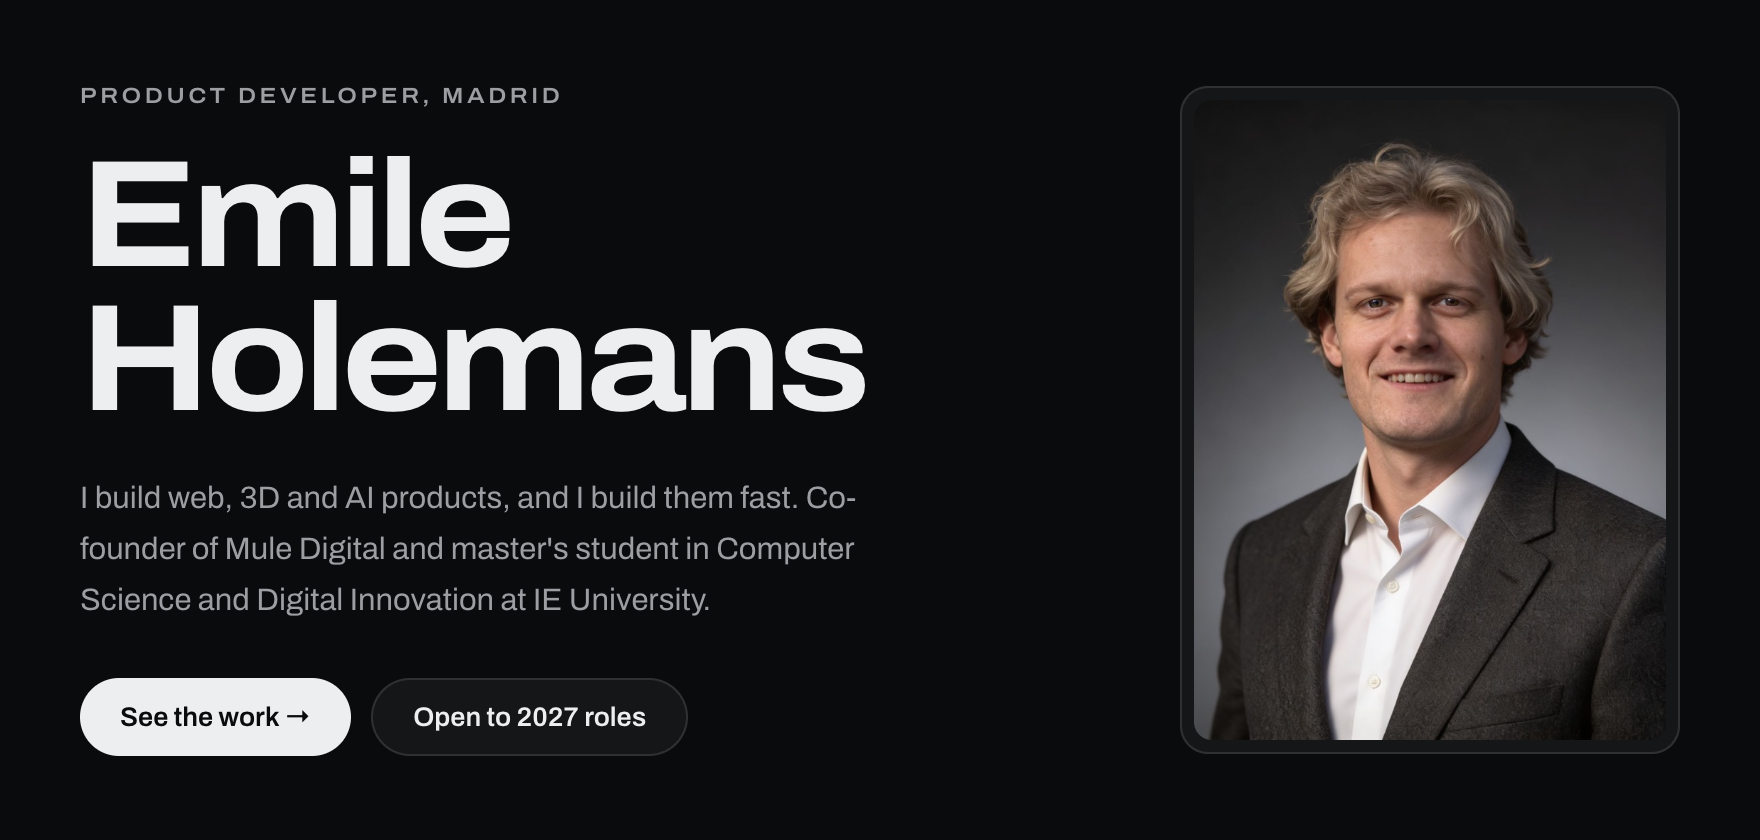
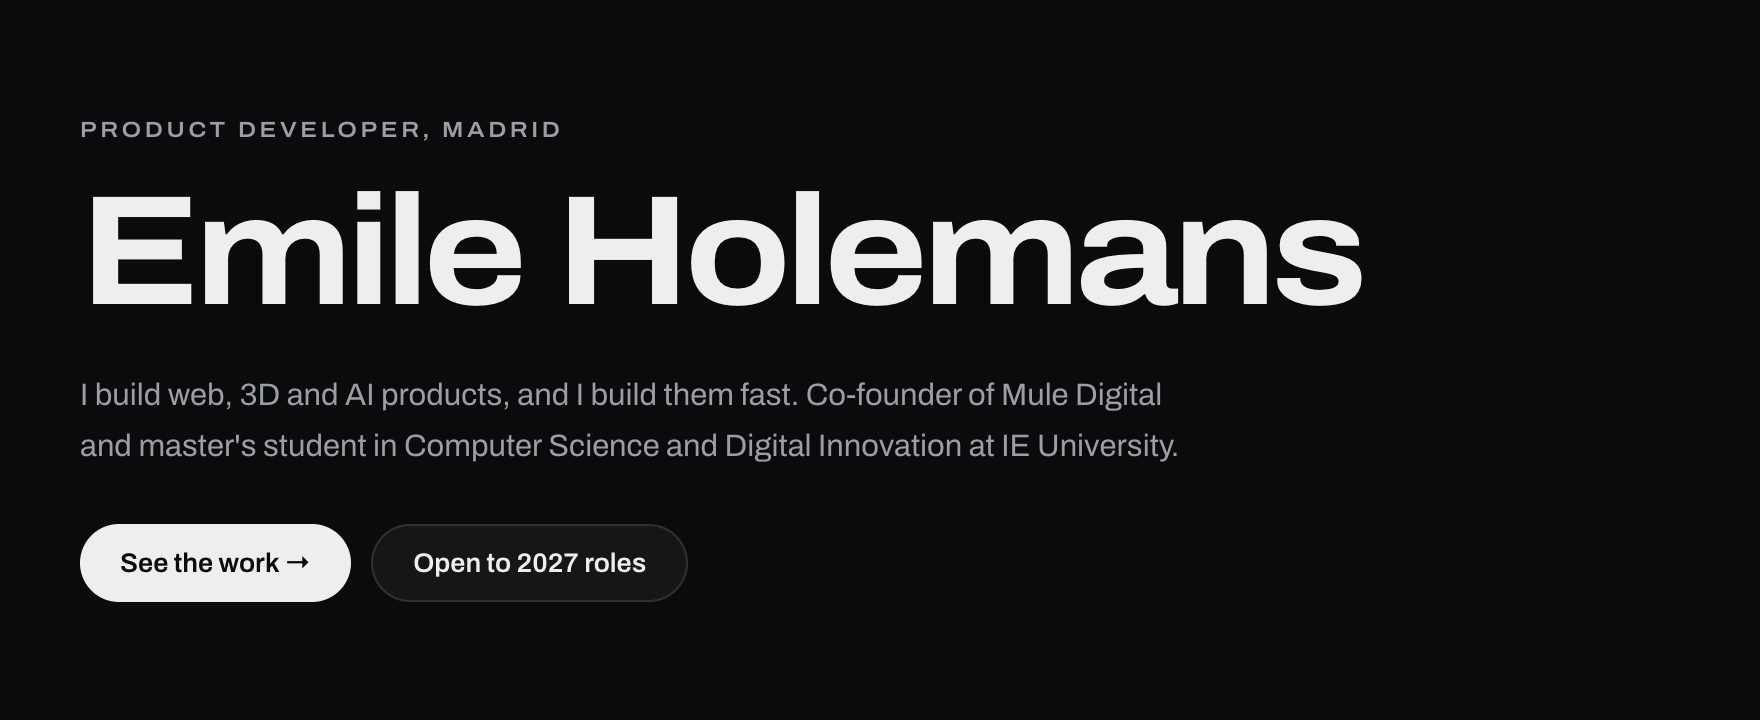
Drop the profile photo from the header

Changed region(s): [[0.0312, 0.1528, 0.9688, 0.8861], [0.0312, 0.7028, 0.4062, 0.9167], [0.0312, 0.0917, 0.3125, 0.1222]]

diff --git a/scripts/render.py b/scripts/render.py
@@ -92,23 +92,20 @@ def hero(theme):
 <div class="wrap">
   <div class="text">
     <p class="label">Product developer, Madrid</p>
-    <h1 class="display">Emile<br>Holemans</h1>
+    <h1 class="display">Emile Holemans</h1>
     <p class="muted intro">I build web, 3D and AI products, and I build them fast. Co-founder of
       Mule Digital and master's student in Computer Science and Digital Innovation at IE University.</p>
     <div class="btns"><span class="btn">See the work &rarr;</span><span class="ghost">Open to 2027 roles</span></div>
   </div>
-  <div class="frame photo"><img src="{(SRC / 'profile.jpg').as_uri()}"></div>
 </div>""", theme, """
-.wrap { display: flex; gap: 40px; align-items: center; padding: 44px 40px; height: 420px; }
+.wrap { display: flex; align-items: center; padding: 44px 40px; height: 360px; }
 .text { flex: 1; }
-h1 { font-size: 76px; margin: 18px 0 20px; }
-.intro { font-size: 15.5px; line-height: 1.65; max-width: 44ch; }
+h1 { font-size: 78px; margin: 18px 0 22px; white-space: nowrap; }
+.intro { font-size: 15.5px; line-height: 1.65; max-width: 62ch; }
 .btns { margin-top: 26px; display: flex; gap: 10px; }
 .btn, .ghost { border-radius: 999px; padding: 11px 20px; font-size: 13.5px; font-weight: 600; }
 .btn { background: %(btn_bg)s; color: %(btn_fg)s; }
 .ghost { border: 1px solid %(edge)s; background: %(soft)s; }
-.photo { width: 250px; flex: none; }
-.photo img { height: 320px; object-fit: cover; object-position: 50%% 22%%; }
 """)
 
 
@@ -172,7 +169,7 @@ def shoot(markup, name, height):
 def main():
     OUT.mkdir(parents=True, exist_ok=True)
     for theme in THEMES:
-        shoot(hero(theme), f"hero-{theme}", 420)
+        shoot(hero(theme), f"hero-{theme}", 360)
         for p in PROJECTS:
             shoot(card(p, theme), f"{p[0]}-{theme}", 340)
         shoot(toolbox(theme), f"toolbox-{theme}", 205)
